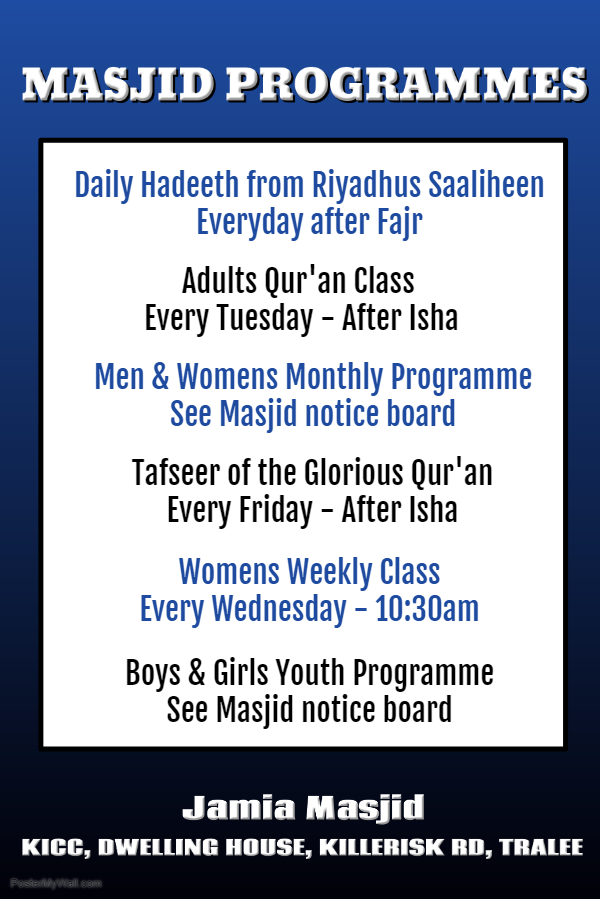
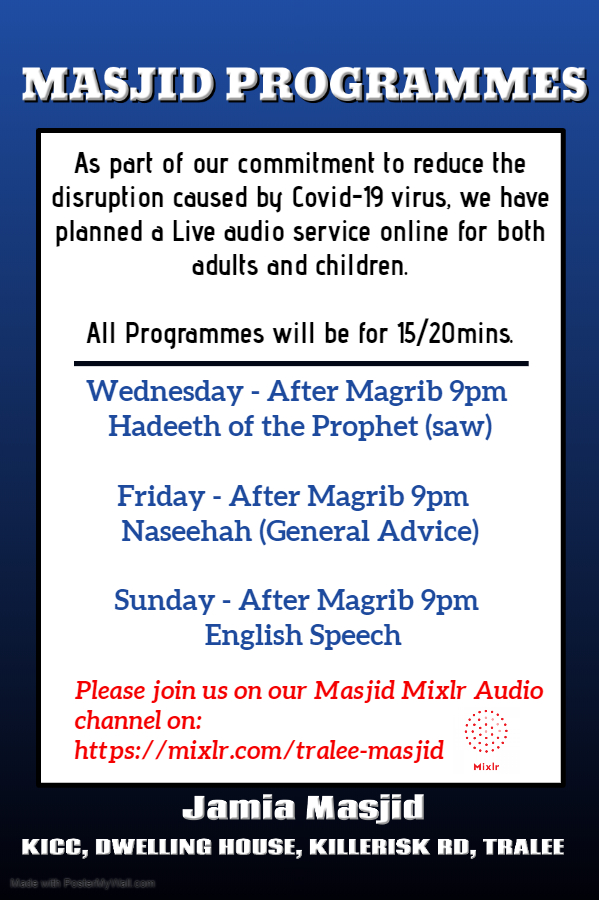
added mixlr and announcements

Changed region(s): [[0.0301, 0.0623, 0.9917, 0.9967], [0.4207, 0.0623, 0.4508, 0.0934]]

diff --git a/index.html b/index.html
@@ -38,7 +38,7 @@
 <body>
   <!-- START OF NAV -->
   <!-- Navigation -->
-  <nav class="navbar navbar-expand-md navbar-dark nav-wide fixed-top">
+  <nav class="navbar navbar-expand-md navbar-dark nav-wide">
     <div class="container">
       <!-- Nab brand -->
       <a class="navbar-brand" href="/">
@@ -82,7 +82,7 @@
 
   <!-- CAROUSEL START -->
   <header>
-    <div id="carouselExampleIndicators" class="carousel slide d-none d-md-block" data-ride="carousel">
+    <div id="carouselExampleIndicators" class="carousel slide d-none" data-ride="carousel">
       <ol class="carousel-indicators">
         <li data-target="#carouselExampleIndicators" data-slide-to="0" class="active"></li>
         <li data-target="#carouselExampleIndicators" data-slide-to="1"></li>
@@ -125,6 +125,10 @@
   </header>
   <!-- CAROUSEL END -->
 
+  <section class="container">
+    <iframe src="https://mixlr.com/tralee-masjid/embed" width="100%" height="155px" scrolling="no" frameborder="no" marginheight="0" marginwidth="0"></iframe>
+  </section>
+
   <!-- WELCOME START -->
   <section class="cp-welcome">
     <div class="container">
@@ -165,30 +169,30 @@
       </div>
       <div class="row mt-4">
         <!-- Column -->
-        <div class="col-md-4 on-hover">
+        <div class="col-md-6 on-hover">
           <div class="card border-0 mb-4">
-            <a href="activities.html#monthly-bayaan">
-              <img class="card-img-top" src="assets/images/Monthly_Bayaan_MAR.jpg" alt="Monthly Bayaan">
+            <a href="#">
+              <img class="card-img-top" src="assets/images/Daily_Activities.jpg" alt="Daily Activities">
             </a>
-            <div class="date-pos bg-info-gradiant p-2 d-inline-block text-center rounded text-white position-absolute">
-              Mar<span class="d-block">1</span></div>
-            <h5 class="font-weight-medium mt-3"><a href="activities.html#monthly-bayaan"
-                class="text-decoration-none link">Favours of Allah (سبحانہ وتعالی) </a></h5>
+            <!-- <div class="date-pos bg-info-gradiant p-2 d-inline-block text-center rounded text-white position-absolute">
+              Daily<span class="d-block"></span></div>
+            <h5 class="font-weight-medium mt-3"><a href="#"
+                class="text-decoration-none link">Daily Activities</a></h5> -->
           </div>
         </div>
         <!-- Column -->
-        <div class="col-md-4 on-hover">
+        <div class="col-md-6 on-hover">
           <div class="card border-0 mb-4">
-            <a href="activities.html#women-class"><img class="card-img-top" src="assets/images/Womens_Class.jpg"
-                alt="Women's Class"></a>
-            <div class="date-pos bg-info-gradiant p-2 d-inline-block text-center rounded text-white position-absolute">
-              Wed<span class="d-block" id="women-class"></span></div>
-            <h5 class="font-weight-medium mt-3"><a href="activities.html#women-class"
-                class="text-decoration-none link">Women's weekly class</a></h5>
+            <a href="#"><img class="card-img-top" src="assets/images/Announcement.png"
+                alt="Announcement"></a>
+            <!-- <div class="date-pos bg-info-gradiant p-2 d-inline-block text-center rounded text-white position-absolute">
+              Wed<span class="d-block" id="women-class"></span></div> -->
+            <!-- <h5 class="font-weight-medium mt-3"><a href="#"
+                class="text-decoration-none link">Masjid Announcement</a></h5> -->
           </div>
         </div>
         <!-- Column -->
-        <div class="col-md-4 on-hover">
+        <!-- <div class="col-md-4 on-hover">
           <div class="card border-0 mb-4">
             <a href="activities.html#tafseer"><img class="card-img-top" src="assets/images/Tafseer.jpg"
                 alt="Tafseer"></a>
@@ -197,7 +201,7 @@
             <h5 class="font-weight-medium mt-3"><a href="activities.html#tafseer"
                 class="text-decoration-none link">Tafseer of the glorious Qur'an</a></h5>
           </div>
-        </div>
+        </div> -->
       </div>
     </div>
   </div>
